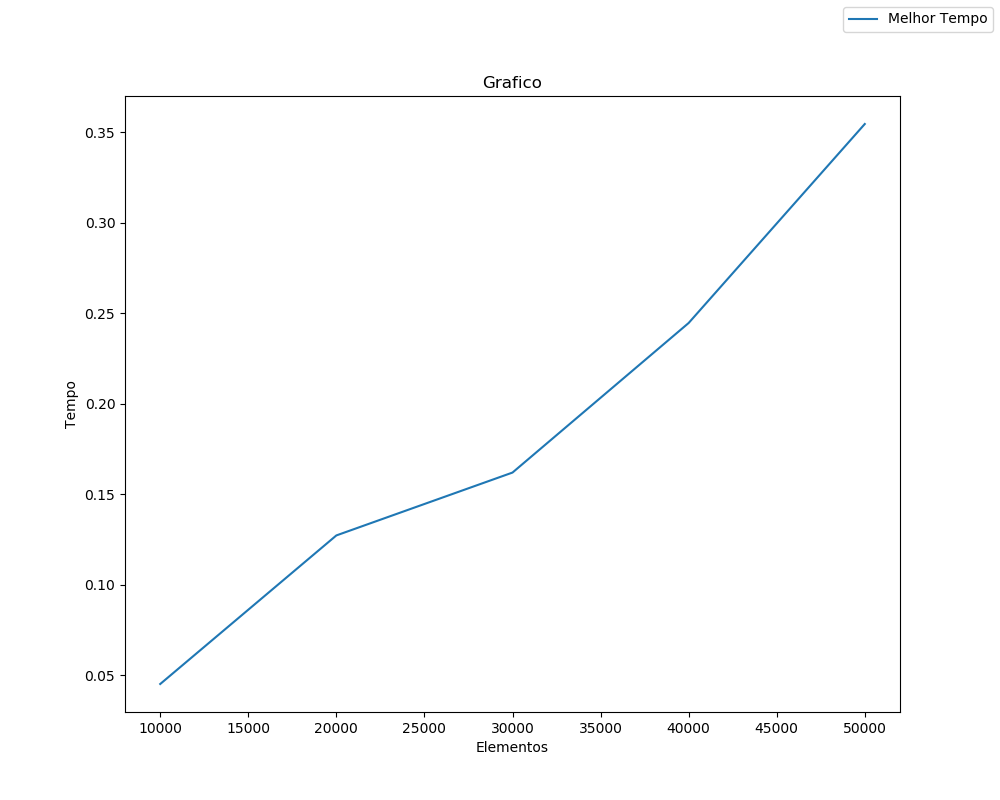
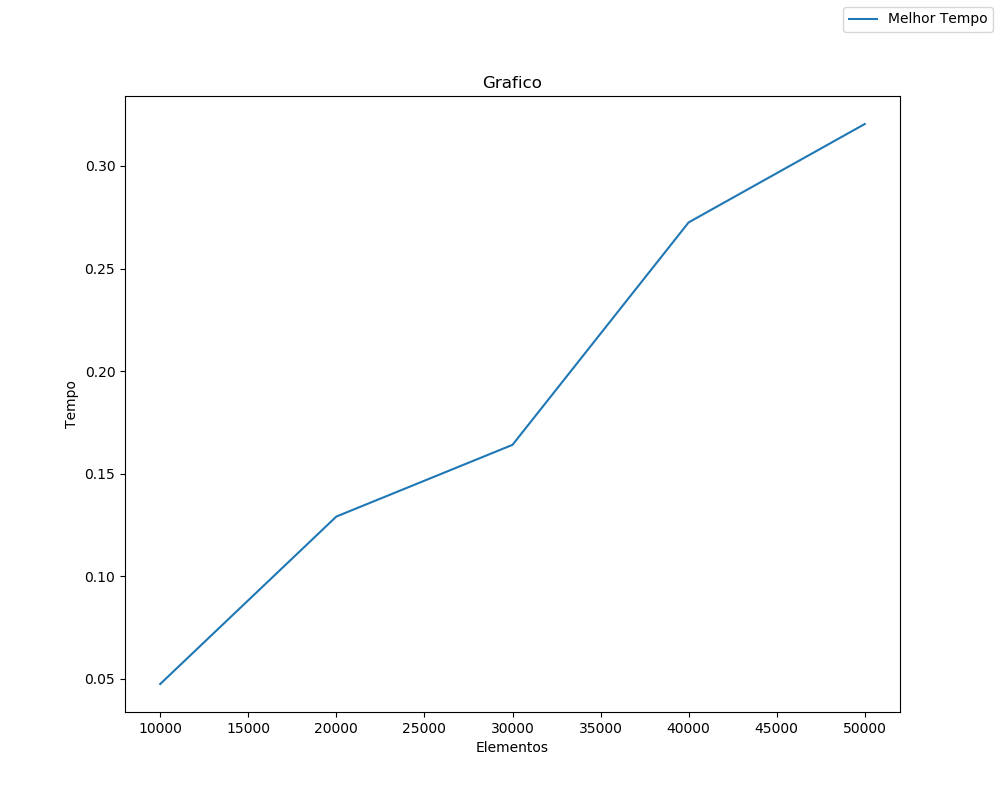
Adicionado printIfSorted ao mergeSort e bubbleSort

diff --git a/SortingAlgorithms(Python)/testBubble.py b/SortingAlgorithms(Python)/testBubble.py
@@ -1,24 +1,15 @@
-import random
-from bubbleSort import bubbleSort
-import bubbleSort
-from insertionSort import insertionSort
 from helperFunctions import *
-import time
-import matplotlib.pyplot as plt
-from bubbleWFlag import bubbleWFlag
-from selectionSort import selectionSort
 import timeit
-import datetime
 import variables
 
-setup = "from helperFunctions import geraLista\n" \
+setup = "from helperFunctions import printIfSorted\n" \
         "from bubbleSort import bubbleSort"
 vect = geraLista(50000)
 swaps = []
 tempo = []
 passo = []
 for x in range(10000, len(vect)+1, 10000):
-    tempo.append(timeit.timeit("bubbleSort({})".format(vect[0:x].copy()), setup, number=1))
+    tempo.append(timeit.timeit("aux={}\naux=bubbleSort(aux)\nprintIfSorted(aux)".format(vect[0:x].copy()), setup, number=1))
     passo.append(x)
     swaps.append(variables.swaps)
     print("Elementos: {}".format(x))

diff --git a/SortingAlgorithms(Python)/testMerge.py b/SortingAlgorithms(Python)/testMerge.py
@@ -1,5 +1,3 @@
-import random
-from helperFunctions import *
 import timeit
 import variables
 from mergeSort import *
@@ -15,7 +13,7 @@ swaps = []
 tempo = []
 passo = []
 for x in range(10000, len(vect)+1, 10000):
-    tempo.append(timeit.timeit("mergeSort({})".format(vect[0:x]), setup, number=1))
+    tempo.append(timeit.timeit("aux={0}\naux=mergeSort(aux)\nprintIfSorted(aux)".format(vect[0:x]), setup, number=1))
     passo.append(x)
     swaps.append(variables.swaps)
     print("Elementos: {}".format(x))

diff --git a/SortingAlgorithms(Python)/bubbleSort.py b/SortingAlgorithms(Python)/bubbleSort.py
@@ -9,3 +9,4 @@ def bubbleSort(vect):
                 vect[j], vect[j + 1] = vect[j + 1], vect[j]
                 swapAux += 1
     variables.swaps = swapAux
+    return vect
